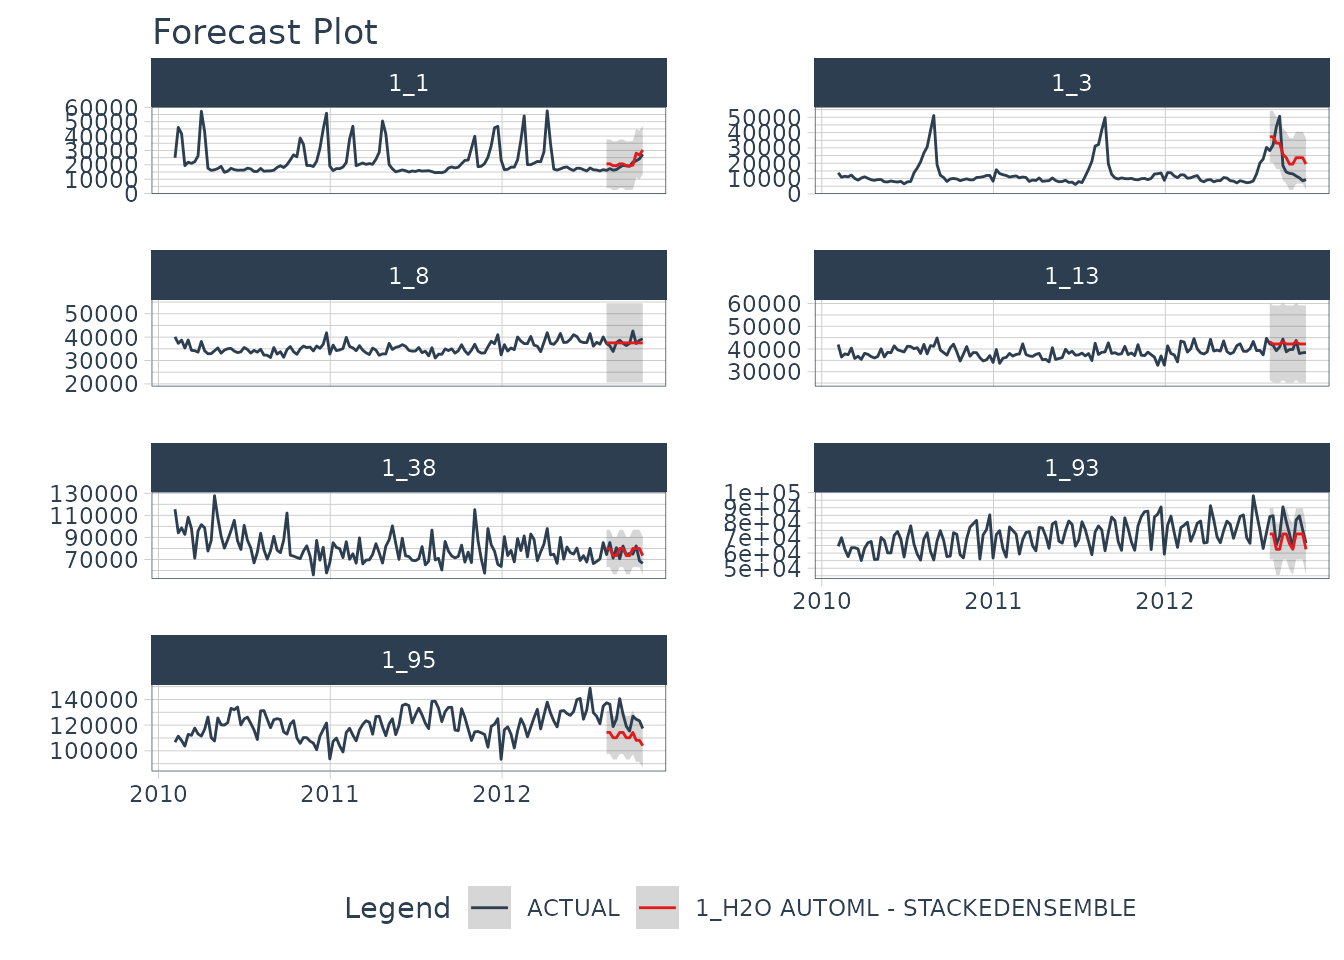
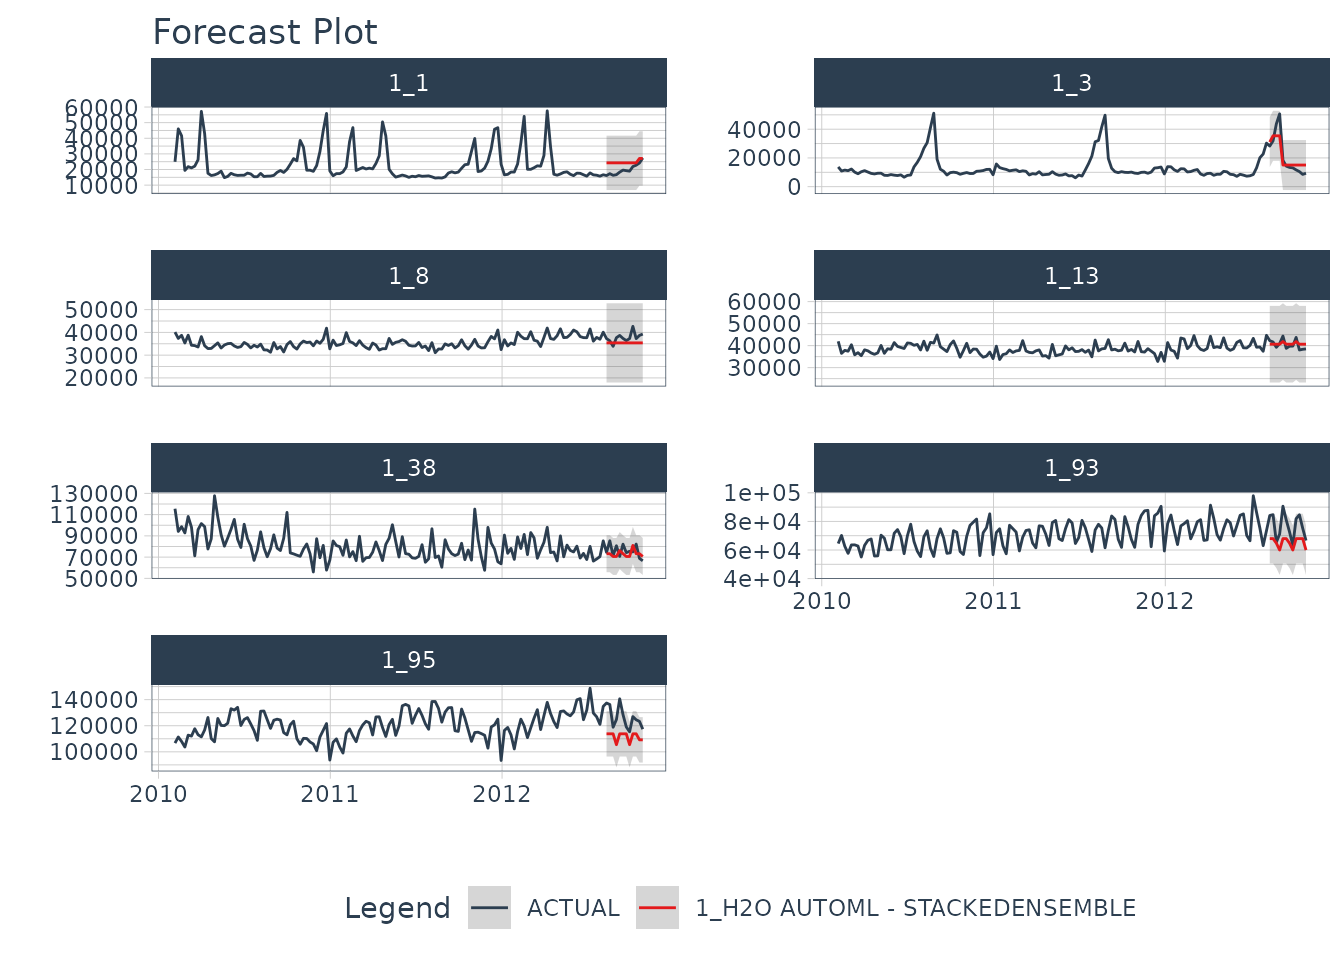
Built site for modeltime.h2o: 0.1.1.9000@ccdea64

diff --git a/articles/getting-started.html b/articles/getting-started.html
@@ -44,7 +44,7 @@
       </button>
       <span class="navbar-brand">
         <a class="navbar-link" href="../index.html">modeltime.h2o</a>
-        <span class="version label label-default" data-toggle="tooltip" data-placement="bottom" title="Released version">0.1.1</span>
+        <span class="version label label-default" data-toggle="tooltip" data-placement="bottom" title="Released version">0.1.1.9000</span>
       </span>
     </div>
 
@@ -223,19 +223,19 @@
 <span class="co">#&gt; H2O is not running yet, starting it now...</span>
 <span class="co">#&gt; </span>
 <span class="co">#&gt; Note:  In case of errors look at the following log files:</span>
-<span class="co">#&gt;     /tmp/RtmpaVqq7m/file4d887a2c8805/h2o_runner_started_from_r.out</span>
-<span class="co">#&gt;     /tmp/RtmpaVqq7m/file4d8848c8057e/h2o_runner_started_from_r.err</span>
+<span class="co">#&gt;     /tmp/RtmpshRhqP/file49e929c50d31/h2o_runner_started_from_r.out</span>
+<span class="co">#&gt;     /tmp/RtmpshRhqP/file49e95f4b4663/h2o_runner_started_from_r.err</span>
 <span class="co">#&gt; </span>
 <span class="co">#&gt; </span>
-<span class="co">#&gt; Starting H2O JVM and connecting: ... Connection successful!</span>
+<span class="co">#&gt; Starting H2O JVM and connecting: .... Connection successful!</span>
 <span class="co">#&gt; </span>
 <span class="co">#&gt; R is connected to the H2O cluster: </span>
-<span class="co">#&gt;     H2O cluster uptime:         2 seconds 770 milliseconds </span>
+<span class="co">#&gt;     H2O cluster uptime:         2 seconds 654 milliseconds </span>
 <span class="co">#&gt;     H2O cluster timezone:       UTC </span>
 <span class="co">#&gt;     H2O data parsing timezone:  UTC </span>
 <span class="co">#&gt;     H2O cluster version:        3.32.0.1 </span>
 <span class="co">#&gt;     H2O cluster version age:    5 months and 27 days !!! </span>
-<span class="co">#&gt;     H2O cluster name:           H2O_started_from_R_runner_zki201 </span>
+<span class="co">#&gt;     H2O cluster name:           H2O_started_from_R_runner_nym094 </span>
 <span class="co">#&gt;     H2O cluster total nodes:    1 </span>
 <span class="co">#&gt;     H2O cluster total memory:   1.51 GB </span>
 <span class="co">#&gt;     H2O cluster total cores:    2 </span>
@@ -282,22 +282,22 @@
 <code class="sourceCode R"><span class="va">model_fitted</span> <span class="op">&lt;-</span> <span class="va">model_spec</span> <span class="op">%&gt;%</span>
     <span class="fu">fit</span><span class="op">(</span><span class="va">Weekly_Sales</span> <span class="op">~</span> <span class="va">.</span>, data <span class="op">=</span> <span class="va">train_tbl</span><span class="op">)</span>
 <span class="co">#&gt;                                           model_id mean_residual_deviance</span>
-<span class="co">#&gt; 1 StackedEnsemble_AllModels_AutoML_20210405_160806              181660034</span>
-<span class="co">#&gt; 2                 XGBoost_2_AutoML_20210405_160806              432146794</span>
-<span class="co">#&gt; 3                 XGBoost_3_AutoML_20210405_160806              978879826</span>
-<span class="co">#&gt; 4                 XGBoost_1_AutoML_20210405_160806             1858814788</span>
+<span class="co">#&gt; 1 StackedEnsemble_AllModels_AutoML_20210405_161100              182935244</span>
+<span class="co">#&gt; 2                 XGBoost_3_AutoML_20210405_161100              357719919</span>
+<span class="co">#&gt; 3                 XGBoost_2_AutoML_20210405_161100             1121009575</span>
+<span class="co">#&gt; 4                 XGBoost_1_AutoML_20210405_161100             1385688898</span>
 <span class="co">#&gt;       rmse        mse       mae     rmsle</span>
-<span class="co">#&gt; 1 13478.13  181660034  9507.739 0.2809760</span>
-<span class="co">#&gt; 2 20788.14  432146794 14726.662 0.4032103</span>
-<span class="co">#&gt; 3 31287.06  978879826 20323.803 0.7911850</span>
-<span class="co">#&gt; 4 43113.97 1858814788 33458.433 1.1063467</span>
+<span class="co">#&gt; 1 13525.36  182935244  9636.353 0.2724485</span>
+<span class="co">#&gt; 2 18913.49  357719919 12550.782 0.3572348</span>
+<span class="co">#&gt; 3 33481.48 1121009575 24697.773 0.8244043</span>
+<span class="co">#&gt; 4 37224.84 1385688898 26017.179 0.9578182</span>
 <span class="co">#&gt; </span>
 <span class="co">#&gt; [4 rows x 6 columns]</span>
 
 <span class="va">model_fitted</span>
 <span class="co">#&gt; parsnip model object</span>
 <span class="co">#&gt; </span>
-<span class="co">#&gt; Fit time:  14.1s </span>
+<span class="co">#&gt; Fit time:  13.4s </span>
 <span class="co">#&gt; </span>
 <span class="co">#&gt; H2O AutoML - Stackedensemble</span>
 <span class="co">#&gt; --------</span>
@@ -305,7 +305,7 @@
 <span class="co">#&gt; ==============</span>
 <span class="co">#&gt; </span>
 <span class="co">#&gt; H2ORegressionModel: stackedensemble</span>
-<span class="co">#&gt; Model ID:  StackedEnsemble_AllModels_AutoML_20210405_160806 </span>
+<span class="co">#&gt; Model ID:  StackedEnsemble_AllModels_AutoML_20210405_161100 </span>
 <span class="co">#&gt; Number of Base Models: 3</span>
 <span class="co">#&gt; </span>
 <span class="co">#&gt; Base Models (count by algorithm type):</span>
@@ -326,11 +326,11 @@
 <span class="co">#&gt; H2ORegressionMetrics: stackedensemble</span>
 <span class="co">#&gt; ** Reported on training data. **</span>
 <span class="co">#&gt; </span>
-<span class="co">#&gt; MSE:  84052889</span>
-<span class="co">#&gt; RMSE:  9168.036</span>
-<span class="co">#&gt; MAE:  7134.082</span>
-<span class="co">#&gt; RMSLE:  0.3220122</span>
-<span class="co">#&gt; Mean Residual Deviance :  84052889</span>
+<span class="co">#&gt; MSE:  70729387</span>
+<span class="co">#&gt; RMSE:  8410.077</span>
+<span class="co">#&gt; MAE:  6041.166</span>
+<span class="co">#&gt; RMSLE:  0.2249612</span>
+<span class="co">#&gt; Mean Residual Deviance :  70729387</span>
 <span class="co">#&gt; </span>
 <span class="co">#&gt; </span>
 <span class="co">#&gt; </span>
@@ -338,21 +338,21 @@
 <span class="co">#&gt; ** Reported on cross-validation data. **</span>
 <span class="co">#&gt; ** 5-fold cross-validation on training data (Metrics computed for combined holdout predictions) **</span>
 <span class="co">#&gt; </span>
-<span class="co">#&gt; MSE:  181660034</span>
-<span class="co">#&gt; RMSE:  13478.13</span>
-<span class="co">#&gt; MAE:  9507.739</span>
-<span class="co">#&gt; RMSLE:  0.280976</span>
-<span class="co">#&gt; Mean Residual Deviance :  181660034</span></code></pre></div>
+<span class="co">#&gt; MSE:  182935244</span>
+<span class="co">#&gt; RMSE:  13525.36</span>
+<span class="co">#&gt; MAE:  9636.353</span>
+<span class="co">#&gt; RMSLE:  0.2724485</span>
+<span class="co">#&gt; Mean Residual Deviance :  182935244</span></code></pre></div>
 <p>The best models are stored in the <code>leaderbord</code> and by default the one with the best metric with which you have decided to sort the leaderbord is selected (this behavior can be controlled with the <code>sort_metric</code> parameter passed through set_engine. For more information see ?h2o.automl. By default, it is sorted by the mean_residual_deviance). To list the models created during training that have finally been stored in the leaderbord you can use the <code>automl_leaderbord</code> function as follows:</p>
 <div class="sourceCode" id="cb7"><pre class="downlit sourceCode r">
 <code class="sourceCode R"><span class="fu"><a href="../reference/automl_leaderboard.html">automl_leaderboard</a></span><span class="op">(</span><span class="va">model_fitted</span><span class="op">)</span>
 <span class="co">#&gt; # A tibble: 4 x 6</span>
 <span class="co">#&gt;   model_id                      mean_residual_devi…   rmse      mse    mae rmsle</span>
 <span class="co">#&gt;   &lt;chr&gt;                                       &lt;dbl&gt;  &lt;dbl&gt;    &lt;dbl&gt;  &lt;dbl&gt; &lt;dbl&gt;</span>
-<span class="co">#&gt; 1 StackedEnsemble_AllModels_Au…          181660034. 13478.   1.82e8  9508. 0.281</span>
-<span class="co">#&gt; 2 XGBoost_2_AutoML_20210405_16…          432146794. 20788.   4.32e8 14727. 0.403</span>
-<span class="co">#&gt; 3 XGBoost_3_AutoML_20210405_16…          978879826. 31287.   9.79e8 20324. 0.791</span>
-<span class="co">#&gt; 4 XGBoost_1_AutoML_20210405_16…         1858814788. 43114.   1.86e9 33458. 1.11</span></code></pre></div>
+<span class="co">#&gt; 1 StackedEnsemble_AllModels_Au…          182935244. 13525.   1.83e8  9636. 0.272</span>
+<span class="co">#&gt; 2 XGBoost_3_AutoML_20210405_16…          357719919. 18913.   3.58e8 12551. 0.357</span>
+<span class="co">#&gt; 3 XGBoost_2_AutoML_20210405_16…         1121009575. 33481.   1.12e9 24698. 0.824</span>
+<span class="co">#&gt; 4 XGBoost_1_AutoML_20210405_16…         1385688898. 37225.   1.39e9 26017. 0.958</span></code></pre></div>
 <p>To change the default selected model (remember, the first one sorted according to the selected metric) you can do it with the <code><a href="../reference/automl_leaderboard.html">automl_update_model()</a></code> function as follows (do not run the following example as the model id name will have changed as there is randomness in the process):</p>
 <div class="sourceCode" id="cb8"><pre class="downlit sourceCode r">
 <code class="sourceCode R"><span class="fu"><a href="../reference/automl_leaderboard.html">automl_update_model</a></span><span class="op">(</span><span class="va">model_fitted</span>, model_id <span class="op">=</span> <span class="st">"StackedEnsemble_AllModels_AutoML_20210319_204825"</span><span class="op">)</span></code></pre></div>
@@ -362,16 +362,16 @@
 <span class="co">#&gt; # A tibble: 84 x 1</span>
 <span class="co">#&gt;      .pred</span>
 <span class="co">#&gt;      &lt;dbl&gt;</span>
-<span class="co">#&gt;  1  20680.</span>
-<span class="co">#&gt;  2  37273.</span>
-<span class="co">#&gt;  3  37543.</span>
-<span class="co">#&gt;  4  43181.</span>
-<span class="co">#&gt;  5  80002.</span>
-<span class="co">#&gt;  6  72670.</span>
-<span class="co">#&gt;  7 114323.</span>
-<span class="co">#&gt;  8  20680.</span>
-<span class="co">#&gt;  9  37273.</span>
-<span class="co">#&gt; 10  37543.</span>
+<span class="co">#&gt;  1  24254.</span>
+<span class="co">#&gt;  2  31059.</span>
+<span class="co">#&gt;  3  35390.</span>
+<span class="co">#&gt;  4  40657.</span>
+<span class="co">#&gt;  5  73194.</span>
+<span class="co">#&gt;  6  67965.</span>
+<span class="co">#&gt;  7 113814.</span>
+<span class="co">#&gt;  8  24254.</span>
+<span class="co">#&gt;  9  35411.</span>
+<span class="co">#&gt; 10  35390.</span>
 <span class="co">#&gt; # … with 74 more rows</span></code></pre></div>
 </div>
 <div id="modeltime-workflow" class="section level2">
@@ -438,13 +438,13 @@
 <code class="sourceCode R"><span class="va">refit_tbl</span> <span class="op">&lt;-</span> <span class="va">modeltime_tbl</span> <span class="op">%&gt;%</span>
     <span class="fu">modeltime_refit</span><span class="op">(</span><span class="va">data_prepared_tbl</span><span class="op">)</span>
 <span class="co">#&gt;                                           model_id mean_residual_deviance</span>
-<span class="co">#&gt; 1 StackedEnsemble_AllModels_AutoML_20210405_160827               87547703</span>
-<span class="co">#&gt; 2                 XGBoost_3_AutoML_20210405_160827             2198195829</span>
-<span class="co">#&gt; 3                 XGBoost_2_AutoML_20210405_160827             2202249547</span>
-<span class="co">#&gt; 4                 XGBoost_1_AutoML_20210405_160827             2261584439</span>
+<span class="co">#&gt; 1 StackedEnsemble_AllModels_AutoML_20210405_161118               88435607</span>
+<span class="co">#&gt; 2                 XGBoost_3_AutoML_20210405_161118             1454013300</span>
+<span class="co">#&gt; 3                 XGBoost_2_AutoML_20210405_161118             2202249547</span>
+<span class="co">#&gt; 4                 XGBoost_1_AutoML_20210405_161118             2261584439</span>
 <span class="co">#&gt;        rmse        mse       mae     rmsle</span>
-<span class="co">#&gt; 1  9356.693   87547703  6990.738 0.2292359</span>
-<span class="co">#&gt; 2 46884.921 2198195829 38428.029 1.2153485</span>
+<span class="co">#&gt; 1  9404.021   88435607  6930.852 0.2257728</span>
+<span class="co">#&gt; 2 38131.526 1454013300 28642.449 0.9598546</span>
 <span class="co">#&gt; 3 46928.132 2202249547 38496.136 1.2258330</span>
 <span class="co">#&gt; 4 47556.119 2261584439 38597.183 1.2282724</span>
 <span class="co">#&gt; </span>

diff --git a/news/index.html b/news/index.html
@@ -89,7 +89,7 @@
       </button>
       <span class="navbar-brand">
         <a class="navbar-link" href="../index.html">modeltime.h2o</a>
-        <span class="version label label-default" data-toggle="tooltip" data-placement="bottom" title="Released version">0.1.1</span>
+        <span class="version label label-default" data-toggle="tooltip" data-placement="bottom" title="Released version">0.1.1.9000</span>
       </span>
     </div>
 
@@ -203,6 +203,11 @@
       <small>Source: <a href='https://github.com/business-science/modeltime.h2o/blob/master/NEWS.md'><code>NEWS.md</code></a></small>
     </div>
 
+    <div id="modeltimeh2o-0119000-development-version" class="section level1">
+<h1 class="page-header" data-toc-text="0.1.1.9000">
+<a href="#modeltimeh2o-0119000-development-version" class="anchor"></a>modeltime.h2o 0.1.1.9000 (Development Version)<small> Unreleased </small>
+</h1>
+</div>
     <div id="modeltimeh2o-011" class="section level1">
 <h1 class="page-header" data-toc-text="0.1.1">
 <a href="#modeltimeh2o-011" class="anchor"></a>modeltime.h2o 0.1.1<small> Unreleased </small>

diff --git a/reference/automl_leaderboard.html b/reference/automl_leaderboard.html
@@ -96,7 +96,7 @@ The model change the model used using automl_update_model().
       </button>
       <span class="navbar-brand">
         <a class="navbar-link" href="../index.html">modeltime.h2o</a>
-        <span class="version label label-default" data-toggle="tooltip" data-placement="bottom" title="Released version">0.1.1</span>
+        <span class="version label label-default" data-toggle="tooltip" data-placement="bottom" title="Released version">0.1.1.9000</span>
       </span>
     </div>
 

diff --git a/reference/automl_reg.html b/reference/automl_reg.html
@@ -92,7 +92,7 @@ different packages. Currently the only package is h2o." />
       </button>
       <span class="navbar-brand">
         <a class="navbar-link" href="../index.html">modeltime.h2o</a>
-        <span class="version label label-default" data-toggle="tooltip" data-placement="bottom" title="Released version">0.1.1</span>
+        <span class="version label label-default" data-toggle="tooltip" data-placement="bottom" title="Released version">0.1.1.9000</span>
       </span>
     </div>
 

diff --git a/reference/save_h2o_model.html b/reference/save_h2o_model.html
@@ -92,7 +92,7 @@ defines." />
       </button>
       <span class="navbar-brand">
         <a class="navbar-link" href="../index.html">modeltime.h2o</a>
-        <span class="version label label-default" data-toggle="tooltip" data-placement="bottom" title="Released version">0.1.1</span>
+        <span class="version label label-default" data-toggle="tooltip" data-placement="bottom" title="Released version">0.1.1.9000</span>
       </span>
     </div>
 

diff --git a/articles/index.html b/articles/index.html
@@ -89,7 +89,7 @@
       </button>
       <span class="navbar-brand">
         <a class="navbar-link" href="../index.html">modeltime.h2o</a>
-        <span class="version label label-default" data-toggle="tooltip" data-placement="bottom" title="Released version">0.1.1</span>
+        <span class="version label label-default" data-toggle="tooltip" data-placement="bottom" title="Released version">0.1.1.9000</span>
       </span>
     </div>
 

diff --git a/reference/automl_fit_impl.html b/reference/automl_fit_impl.html
@@ -90,7 +90,7 @@
       </button>
       <span class="navbar-brand">
         <a class="navbar-link" href="../index.html">modeltime.h2o</a>
-        <span class="version label label-default" data-toggle="tooltip" data-placement="bottom" title="Released version">0.1.1</span>
+        <span class="version label label-default" data-toggle="tooltip" data-placement="bottom" title="Released version">0.1.1.9000</span>
       </span>
     </div>
 

diff --git a/reference/automl_predict_impl.html b/reference/automl_predict_impl.html
@@ -90,7 +90,7 @@
       </button>
       <span class="navbar-brand">
         <a class="navbar-link" href="../index.html">modeltime.h2o</a>
-        <span class="version label label-default" data-toggle="tooltip" data-placement="bottom" title="Released version">0.1.1</span>
+        <span class="version label label-default" data-toggle="tooltip" data-placement="bottom" title="Released version">0.1.1.9000</span>
       </span>
     </div>
 

diff --git a/reference/index.html b/reference/index.html
@@ -89,7 +89,7 @@
       </button>
       <span class="navbar-brand">
         <a class="navbar-link" href="../index.html">modeltime.h2o</a>
-        <span class="version label label-default" data-toggle="tooltip" data-placement="bottom" title="Released version">0.1.1</span>
+        <span class="version label label-default" data-toggle="tooltip" data-placement="bottom" title="Released version">0.1.1.9000</span>
       </span>
     </div>
 

diff --git a/reference/pipe.html b/reference/pipe.html
@@ -90,7 +90,7 @@
       </button>
       <span class="navbar-brand">
         <a class="navbar-link" href="../index.html">modeltime.h2o</a>
-        <span class="version label label-default" data-toggle="tooltip" data-placement="bottom" title="Released version">0.1.1</span>
+        <span class="version label label-default" data-toggle="tooltip" data-placement="bottom" title="Released version">0.1.1.9000</span>
       </span>
     </div>
 

diff --git a/404.html b/404.html
@@ -89,7 +89,7 @@
       </button>
       <span class="navbar-brand">
         <a class="navbar-link" href="index.html">modeltime.h2o</a>
-        <span class="version label label-default" data-toggle="tooltip" data-placement="bottom" title="Released version">0.1.1</span>
+        <span class="version label label-default" data-toggle="tooltip" data-placement="bottom" title="Released version">0.1.1.9000</span>
       </span>
     </div>
 

diff --git a/LICENSE-text.html b/LICENSE-text.html
@@ -89,7 +89,7 @@
       </button>
       <span class="navbar-brand">
         <a class="navbar-link" href="index.html">modeltime.h2o</a>
-        <span class="version label label-default" data-toggle="tooltip" data-placement="bottom" title="Released version">0.1.1</span>
+        <span class="version label label-default" data-toggle="tooltip" data-placement="bottom" title="Released version">0.1.1.9000</span>
       </span>
     </div>
 
